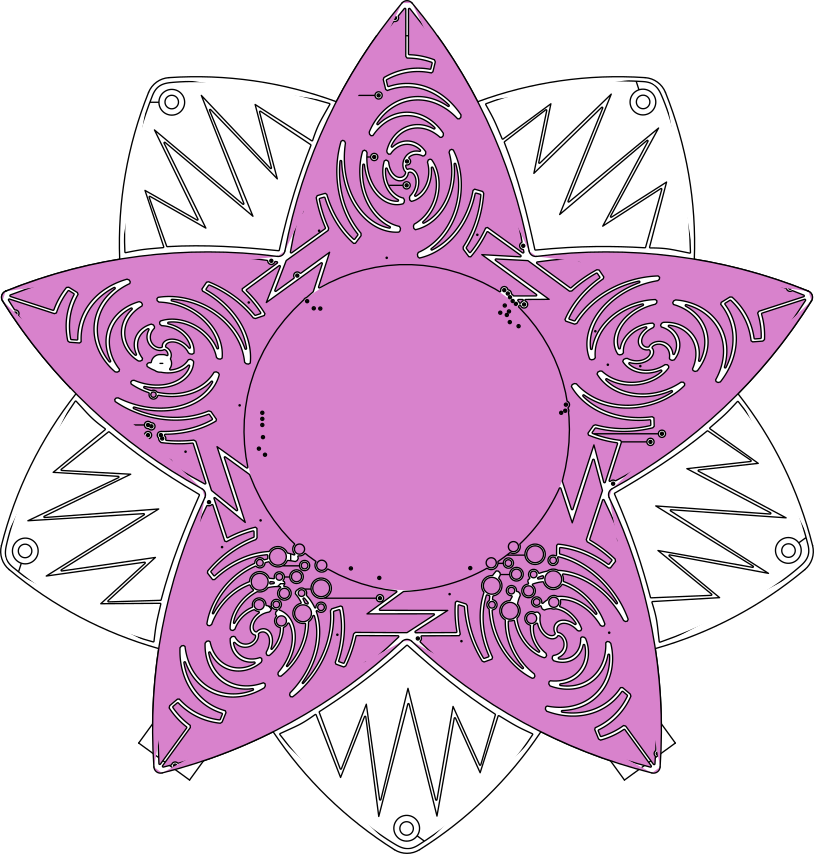
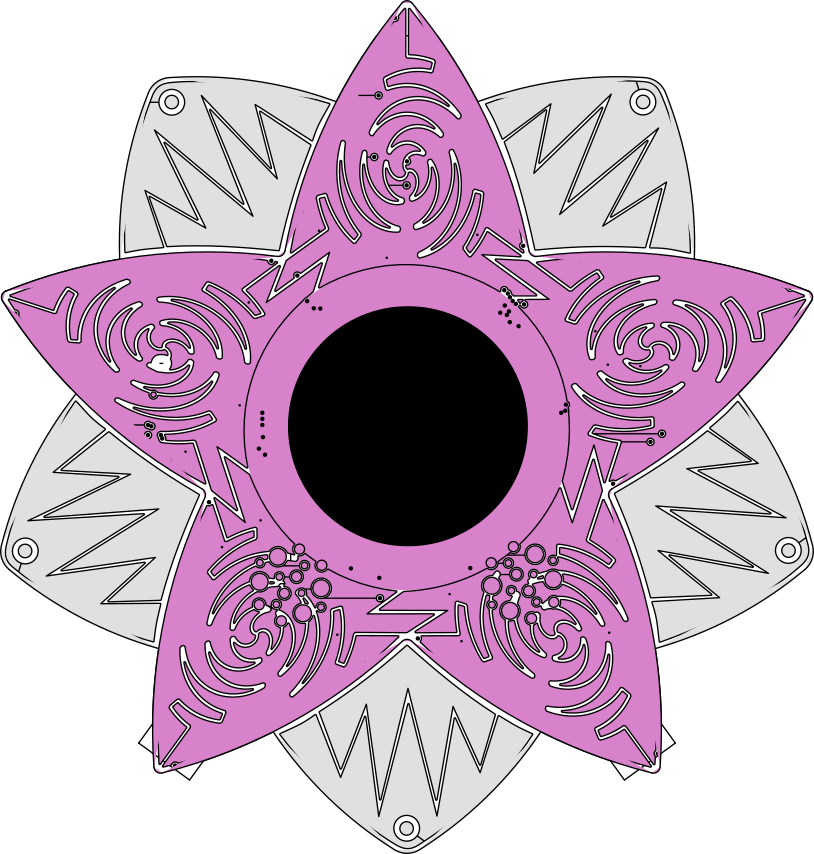
sim: implement LED output

diff --git a/sim/fakes/hardware.py b/sim/fakes/hardware.py
@@ -54,7 +54,24 @@ def display_update():
     fb = get_ctx()._get_fb()
 
     full = pygame.Surface((screen_w, screen_h), flags=pygame.SRCALPHA)
+    full.fill((0, 0, 0, 255))
     full.blit(background, (0, 0))
+
+    leds = pygame.Surface((screen_w, screen_h), flags=pygame.SRCALPHA)
+    for pos, state in zip(leds_positions, leds_state):
+        x = pos[0] + 3.0
+        y = pos[1] + 3.0
+        r, g, b = state
+        for i in range(20):
+            radius = 26 - i
+            #r = r / (math.sqrt(19-i)+1)
+            #g = g / (math.sqrt(19-i)+1)
+            #b = b / (math.sqrt(19-i)+1)
+            r2 = r / (20 - i)
+            g2 = g / (20 - i)
+            b2 = b / (20 - i)
+            pygame.draw.circle(leds, (r2, g2, b2), (x, y), radius)
+    full.blit(leds, (0, 0), special_flags=pygame.BLEND_ADD)
 
     center_x = 408
     center_y = 426
@@ -85,14 +102,37 @@ def display_update():
     del oled_buf
     full.blit(oled, (off_x, off_y))
 
+    screen.fill((0, 0, 0, 255))
     screen.blit(full, (0,0))
     pygame.display.flip()
 
-def set_led_rgb(a, b, c, d):
-    pass
+leds_positions = [
+    (660, 455), (608, 490), (631, 554), (648, 618), (659, 690), (655, 770), (571, 746), (502, 711),
+    (452, 677), (401, 639), (352, 680), (299, 713), (241, 745), (151, 771), (147, 682), (160, 607),
+    (176, 549), (197, 491), (147, 453), ( 98, 416), ( 43, 360), (  0, 292), ( 64, 267), (144, 252),
+    (210, 248), (276, 249), (295, 190), (318, 129), (351,  65), (404,   0), (456,  64), (490, 131),
+    (511, 186), (529, 250), (595, 247), (663, 250), (738, 264), (810, 292), (755, 371), (705, 419),
+]
+leds_state_buf = [(0, 0, 0) for _ in leds_positions]
+leds_state = [(0, 0, 0) for _ in leds_positions]
+
+def set_led_rgb(ix, r, g, b):
+    ix = ((39-ix) + 1 + 32)%40;
+
+    r = r << 3
+    g = g << 2
+    b = b << 3
+    if r > 255:
+        r = 255
+    if g > 255:
+        g = 255
+    if b > 255:
+        b = 255
+    leds_state_buf[ix] = (r, g, b)
 
 def update_leds():
-    pass
+    for i, s in enumerate(leds_state_buf):
+        leds_state[i] = s
 
 def set_global_volume_dB(a):
     pass

diff --git a/sim/README.md b/sim/README.md
@@ -36,8 +36,6 @@ No support for input of any kind yet (captouch, three-way buttons).
 
 No support for audio yet.
 
-No support for LEDs yet.
-
 Hacking
 ---
 
